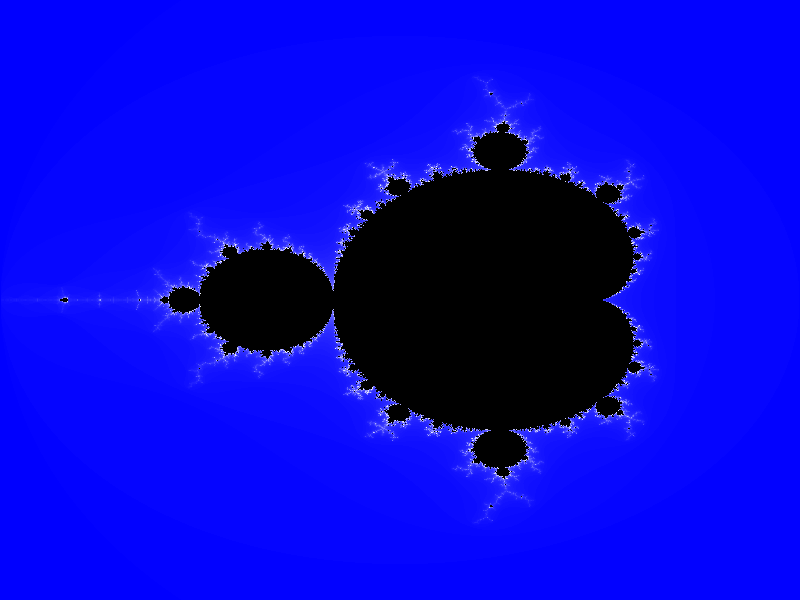
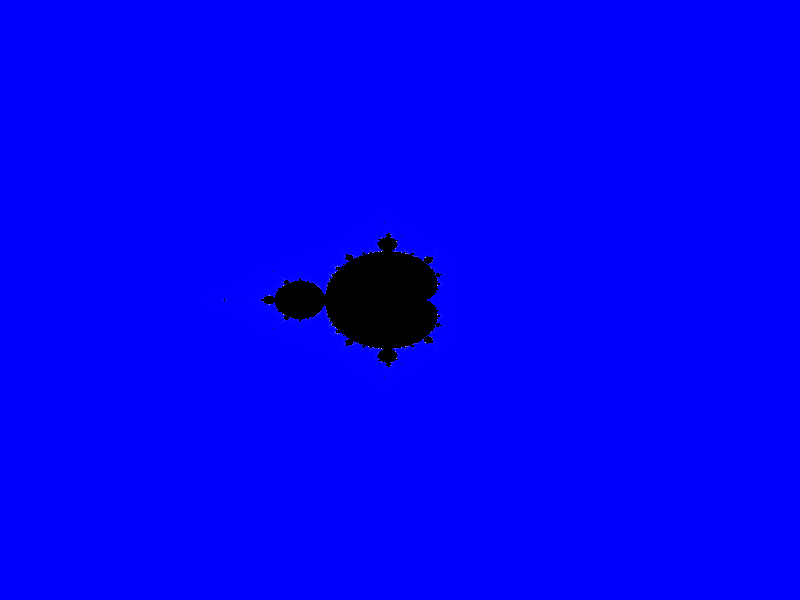
Add files via upload

Changed region(s): [[0.0625, 0.12, 0.8438, 0.87]]

diff --git a/mandel.py b/mandel.py
@@ -41,8 +41,8 @@ def main():
     parser.add_argument('-x', type=float, default=0, help='X center')
     parser.add_argument('-y', type=float, default=0, help='Y center')
     parser.add_argument('-s', type=float, default=4, help='Scale')
-    parser.add_argument('-W', type=int, default=500, help='Image width')
-    parser.add_argument('-H', type=int, default=500, help='Image height')
+    parser.add_argument('-W', type=int, default=800, help='Image width')
+    parser.add_argument('-H', type=int, default=600, help='Image height')
     parser.add_argument('-o', type=str, default='mandel.png', help='Output file')
     args = parser.parse_args()
 

diff --git a/mandelseries_philosophers.py b/mandelseries_philosophers.py
@@ -74,12 +74,12 @@ if __name__ == "__main__":
     logging.info("Program started (Dining Philosophers version).")
     program_start = time.time()
     try:
-        xcenter = -0.5
-        ycenter = 0.0
-        scale = 1.5
+        xcenter = 0
+        ycenter = 0
+        scale = 4
         image_width = 800
         image_height = 600
-        max_iter = 100
+        max_iter = 1000
         num_philosophers = 5
 
         logging.info("Running Mandelbrot with Dining Philosophers synchronization...")

diff --git a/mandelseries.py b/mandelseries.py
@@ -155,12 +155,12 @@ if __name__ == "__main__":
     logging.info("Program started.")
     program_start = time.time()
     try:
-        xcenter = -0.5
-        ycenter = 0.0
-        scale = 1.5
+        xcenter = 0
+        ycenter = 0
+        scale = 4
         image_width = 800
         image_height = 600
-        max_iter = 100
+        max_iter = 1000
         nproc = 4
         logging.info("Running multiprocessing Mandelbrot...")
         start = time.time()

diff --git a/mandelseries_sleeping_barber.py b/mandelseries_sleeping_barber.py
@@ -114,12 +114,12 @@ if __name__ == "__main__":
     logging.info("Program started (Sleeping Barber version).")
     program_start = time.time()
     try:
-        xcenter = -0.5
-        ycenter = 0.0
-        scale = 1.5
+        xcenter = 0
+        ycenter = 0
+        scale = 4
         image_width = 800
         image_height = 600
-        max_iter = 100
+        max_iter = 1000
         num_threads = 4
         num_processes = 4
 

diff --git a/mandelseries_sync.py b/mandelseries_sync.py
@@ -129,12 +129,12 @@ if __name__ == "__main__":
     logging.info("Program started.")
     program_start = time.time()
     try:
-        xcenter = -0.5
-        ycenter = 0.0
-        scale = 1.5
+        xcenter = 0
+        ycenter = 0
+        scale = 4
         image_width = 800
         image_height = 600
-        max_iter = 100
+        max_iter = 1000
         num_threads = 4
         num_processes = 4
 
